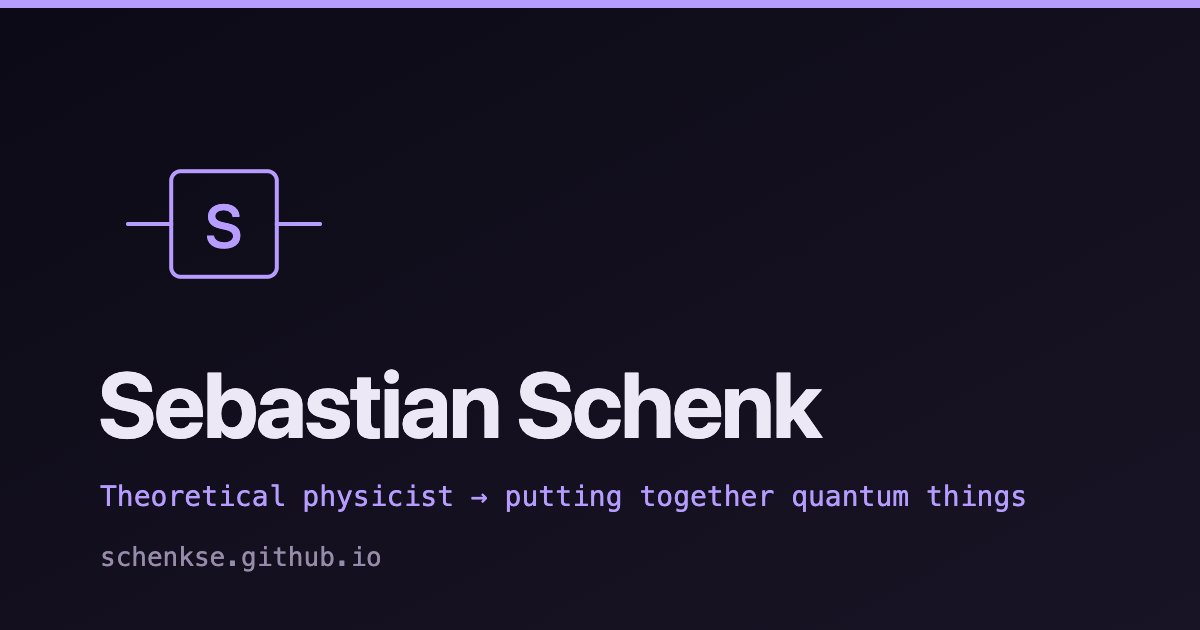
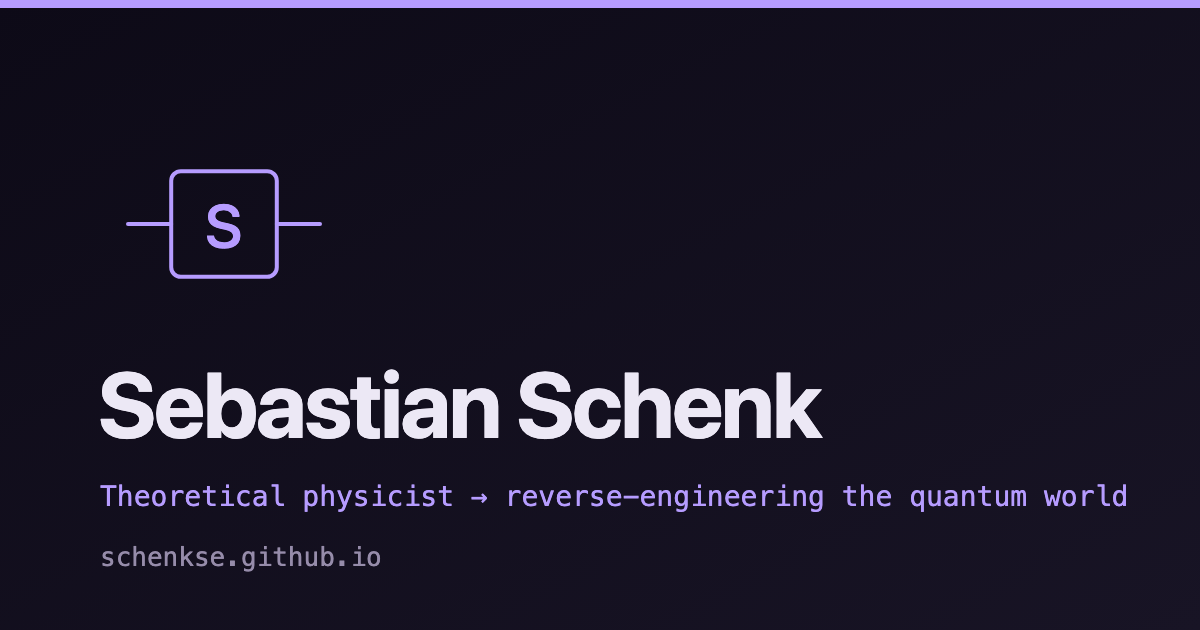
Update hero tagline and OG image

Changed region(s): [[0.6475, 0.754, 0.9558, 0.8143], [0.4008, 0.754, 0.6167, 0.8143]]

diff --git a/index.html b/index.html
@@ -236,7 +236,7 @@
             <h1 id="hero-heading" class="hero__name">Sebastian Schenk</h1>
             <p class="hero__tagline">
               Theoretical physicist <span class="hero__arrow" aria-hidden="true">→</span>
-              taking quantum theory apart to see how it works.
+              reverse-engineering the quantum world.
             </p>
             <p class="hero__intro">
               I work on quantum field theory and its less-tractable corners.
